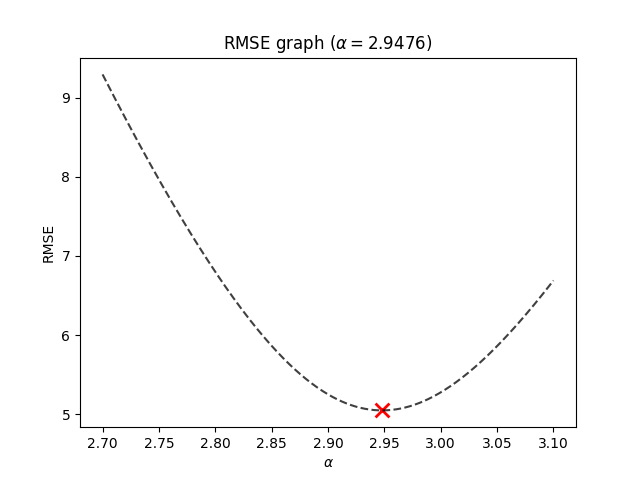
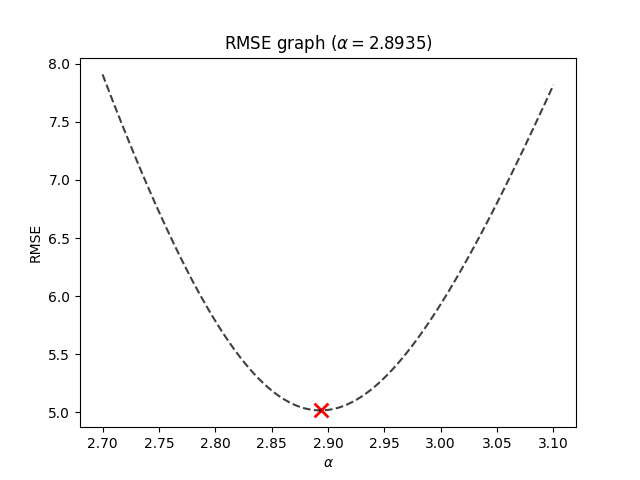
rmse curve bug fix

diff --git a/seminar_1/main.py b/seminar_1/main.py
@@ -48,9 +48,9 @@ def find_RMSE(model:pd.DataFrame, historical:pd.DataFrame, dt:float) -> float:
 			interpolated_D = model.iloc[model_ix].D
 			
 		model_ix = min(len(model)-1, model_ix)
-		total_sq_err += (model.iloc[model_ix].I - row.I) ** 2
-		total_sq_err += (model.iloc[model_ix].S - row.S) ** 2
-		total_sq_err += (model.iloc[model_ix].D - row.D) ** 2
+		total_sq_err += (interpolated_I - row.I) ** 2
+		total_sq_err += (interpolated_S - row.S) ** 2
+		total_sq_err += (interpolated_D - row.D) ** 2
 	
 	return sqrt(total_sq_err / len(historical))
 
